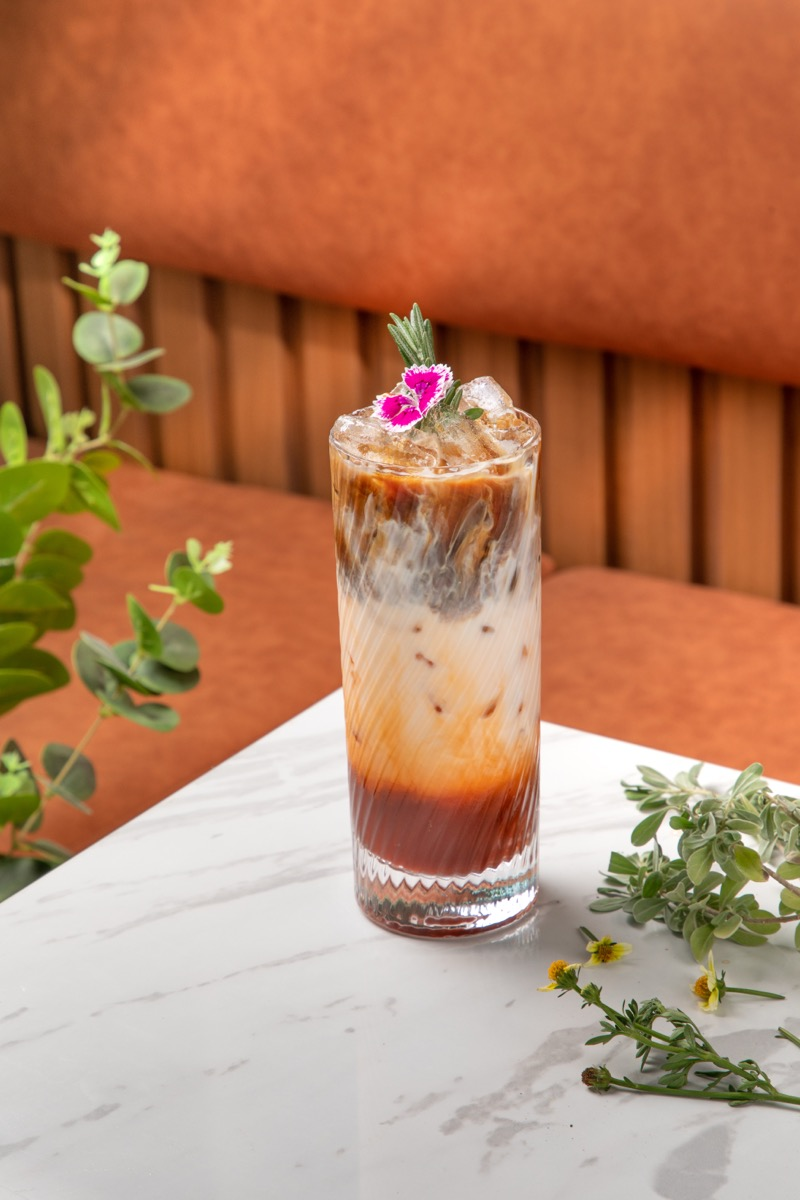
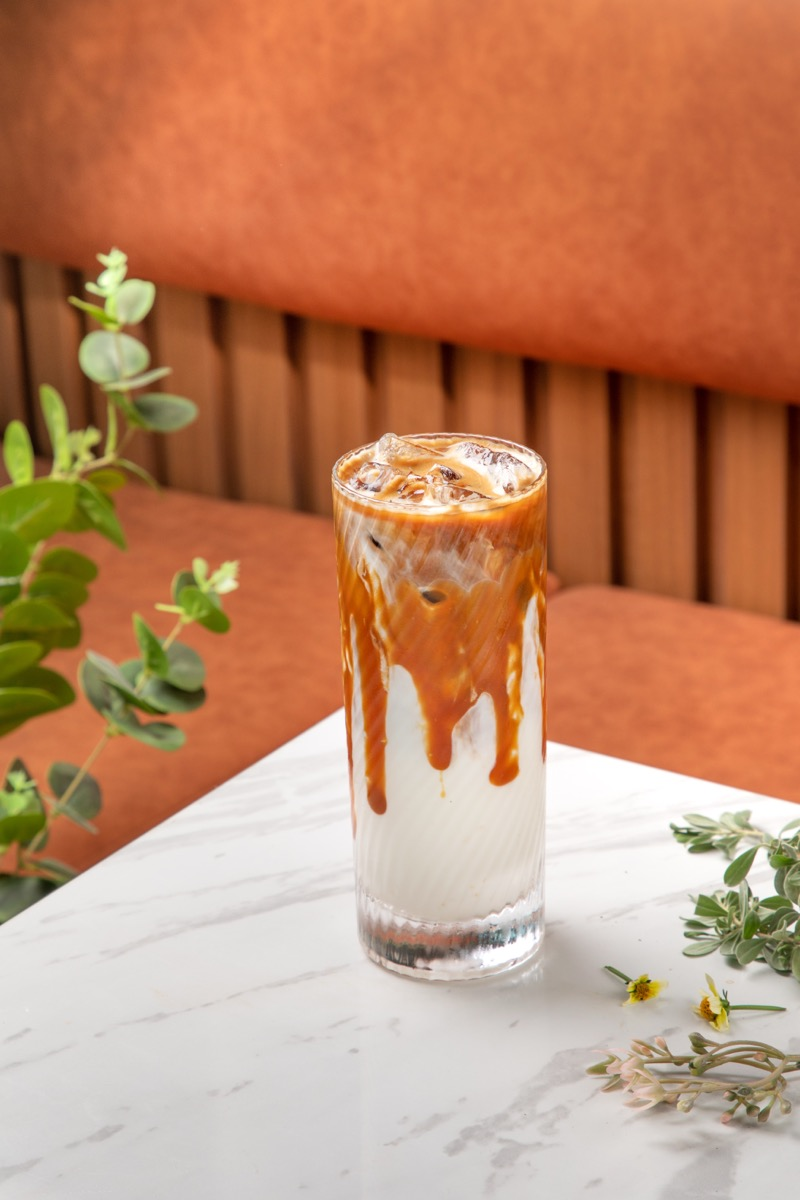
fix(mapping): correct Coffee #1-4 image↔menu mapping
After re-checking POS screenshots at higher resolution, the original
mapping had swapped several Coffee items. Now corrected via atomic
4-way file rename + HTML reference rebinding:

  คาราเมลลาเต้ ฿100  ← LILA-053 (caramel drip down clear glass)
  Es-yen ฿95         ← LILA-044 (beige + rosemary, fluted glass)
  ลาเต้ ฿90          ← LILA-049 (layered + rosemary, fluted)
  อเมริกาโน่ ฿80      ← LILA-046 (dark + rosemary)  [unchanged, was right]

LILA-043 (layered + flower garnish) doesn't match any clear POS item.
Renamed to lila-cafe-latte-iced-floral.jpg and reassigned to the
"แอฟโฟกาโต้" slot as placeholder; flagged 🔵 in verify.html so owner
can identify the real menu name.

Files touched:
- assets/menu/: 4-way circular rename (history preserved via git mv)
- prototype/index.html: 2 cards re-pointed (homepage highlight)
- prototype/menu.html:  4 cards re-pointed (coffee section)
- prototype/verify.html: 4 cards corrected + 1 reflagged as 🔵 TBC
- docs/menu-image-mapping.md: descriptions synced
- docs/TASKS.md: log

diff --git a/prototype/verify.html b/prototype/verify.html
@@ -98,7 +98,7 @@
       <img src="../assets/menu/lila-cafe-es-yen.jpg" class="w-full aspect-square object-cover" />
       <div class="p-3">
         <div class="font-medium">Es-yen ฿95</div>
-        <div class="text-xs text-slate-500">เอสเย็น</div>
+        <div class="text-xs text-slate-500">เอสเย็น · beige + rosemary</div>
         <div class="flex gap-2 mt-2"><span class="badge strong">✅</span><code class="text-[10px] text-slate-400">es-yen</code></div>
       </div>
     </div>
@@ -114,7 +114,7 @@
       <img src="../assets/menu/lila-cafe-latte-iced.jpg" class="w-full aspect-square object-cover" />
       <div class="p-3">
         <div class="font-medium">ลาเต้ (เย็น) ฿90</div>
-        <div class="text-xs text-slate-500">Latte Iced · cream + rosemary</div>
+        <div class="text-xs text-slate-500">Latte Iced · layered + rosemary</div>
         <div class="flex gap-2 mt-2"><span class="badge strong">✅</span><code class="text-[10px] text-slate-400">latte-iced</code></div>
       </div>
     </div>
@@ -134,12 +134,12 @@
         <div class="flex gap-2 mt-2"><span class="badge likely">🟡</span><code class="text-[10px] text-slate-400">es-yen-honey</code></div>
       </div>
     </div>
-    <div class="card bg-white rounded-2xl overflow-hidden shadow ring-2 ring-yellow-400">
-      <img src="../assets/menu/lila-cafe-caramel-macchiato.jpg" class="w-full aspect-square object-cover" />
+    <div class="card bg-white rounded-2xl overflow-hidden shadow ring-2 ring-blue-300">
+      <img src="../assets/menu/lila-cafe-latte-iced-floral.jpg" class="w-full aspect-square object-cover" />
       <div class="p-3">
-        <div class="font-medium">Caramel Macchiato?</div>
-        <div class="text-xs text-slate-500">caramel drizzle prominent</div>
-        <div class="flex gap-2 mt-2"><span class="badge likely">🟡</span><code class="text-[10px] text-slate-400">caramel-macchiato</code></div>
+        <div class="font-medium">⚠️ ไม่ทราบชื่อ — รอ confirm</div>
+        <div class="text-xs text-slate-500">layered + flower + rosemary — เมนูพิเศษอะไร?</div>
+        <div class="flex gap-2 mt-2"><span class="badge suggested">🔵</span><code class="text-[10px] text-slate-400">latte-iced-floral</code></div>
       </div>
     </div>
     <div class="card bg-white rounded-2xl overflow-hidden shadow ring-2 ring-yellow-400">

diff --git a/prototype/menu.html b/prototype/menu.html
@@ -224,7 +224,7 @@
     </article>
     <article class="group">
       <div class="arch-image bg-cream-200 aspect-square mb-4 shadow-sm">
-        <img src="../assets/menu/lila-cafe-dirty-chocolate.jpg" alt="แอฟโฟกาโต้" class="w-full h-full object-cover group-hover:scale-105 transition duration-500" />
+        <img src="../assets/menu/lila-cafe-latte-iced-floral.jpg" alt="แอฟโฟกาโต้" class="w-full h-full object-cover group-hover:scale-105 transition duration-500" />
       </div>
       <h3 class="thai-heading text-lg">แอฟโฟกาโต้</h3>
       <p class="text-xs text-ink-500 mt-1">Affogato</p>

diff --git a/docs/menu-image-mapping.md b/docs/menu-image-mapping.md
@@ -39,13 +39,13 @@
 | lila-cafe-almond-caramel-latte.jpg | coffee | almond-caramel-latte | Almond caramel latte | 🟡 | almond garnish |
 | lila-cafe-biscoff-latte.jpg | noncoffee | biscoff-latte | Biscoff/Lotus latte | 🟡 | biscuit topping |
 | lila-cafe-es-yen-honey.jpg | coffee | es-yen-honey | Es-yen + honeycomb | 🟡 | caramel + honeycomb |
-| lila-cafe-caramel-latte-iced.jpg | coffee | caramel-latte-iced | คาราเมลลาเต้ (เย็น) | ✅ | layered + caramel ribbon |
-| lila-cafe-latte-iced.jpg | coffee | latte-iced | ลาเต้ (เย็น) | ✅ | cream + rosemary |
-| lila-cafe-americano-iced.jpg | coffee | americano-iced | อเมริกาโน่ (เย็น) | ✅ | ดำเข้ม ใส |
+| lila-cafe-latte-iced-floral.jpg | signature | unknown-floral | ⚠️ ไม่ทราบชื่อ — layered + flower + rosemary | 🔵 | (was LILA-043) รอเจ้าของ confirm |
+| lila-cafe-latte-iced.jpg | coffee | latte-iced | ลาเต้ (เย็น) ฿90 | ✅ | layered + rosemary, fluted glass (was LILA-049) |
+| lila-cafe-americano-iced.jpg | coffee | americano-iced | อเมริกาโน่ (เย็น) ฿80 | ✅ | ดำเข้ม + rosemary (was LILA-046) |
 | lila-cafe-berry-smoothie.jpg | signature | berry-smoothie | Berry smoothie | 🟡 | red + cream layer |
-| lila-cafe-es-yen.jpg | coffee | es-yen | Es-yen | ✅ | caramel layered |
+| lila-cafe-es-yen.jpg | coffee | es-yen | Es-yen ฿95 | ✅ | beige + rosemary (was LILA-044) |
 | lila-cafe-pink-milk.jpg | noncoffee | pink-milk | นมชมพู | ✅ | shake + whipped cream |
-| lila-cafe-caramel-macchiato.jpg | coffee | caramel-latte-alt | Caramel latte alt | 🟡 | drizzle prominent |
+| lila-cafe-caramel-latte-iced.jpg | coffee | caramel-latte-iced | คาราเมลลาเต้ ฿100 | ✅ | caramel drip down outside (was LILA-053) |
 | lila-cafe-matcha-tonic.jpg | matcha | matcha-tonic | Matcha tonic | 🟡 | matcha + clear soda |
 | lila-cafe-dirty-matcha.jpg | matcha | dirty-matcha | Dirty matcha | 🟡 | matcha + chocolate drizzle |
 | lila-cafe-matcha-strawberry.jpg | matcha | matcha-strawberry | Matcha strawberry | 🟡 | เขียว-ขาว-แดง |
@@ -117,3 +117,4 @@ lila-cafe-{descriptor}.jpg
 |---|---|
 | 2026-05-28 | Initial mapping: 40 drink photos ระบุประเภทแล้ว, web-resize ครบ |
 | 2026-05-28 | **SEO rename:** `LILA-NNN.jpg` → `lila-cafe-{menu-slug}.jpg` (40 ไฟล์) + update references ใน HTML/docs |
+| 2026-05-28 | **Re-map Coffee #1-4 หลังเห็น POS images ชัดขึ้น:** swap LILA-043/044/049/053 ให้ตรง — คาราเมลลาเต้/Es-yen/ลาเต้ ถูกต้องแล้ว; LILA-043 (floral) ไม่ทราบชื่อ รอ confirm |

diff --git a/docs/TASKS.md b/docs/TASKS.md
@@ -33,6 +33,9 @@ Status: `todo` | `in-progress` | `blocked` | `done`
 | 0.21 | ขอรูป interior/facility (5 มุม) | todo | สำหรับ facility.html + hero |
 | 0.22 | Retry download ~5 ไฟล์ที่ Drive rate-limit | todo | LILA-083/086/087/088/090/091/092/093 |
 | 0.23 | SEO rename รูป: `LILA-NNN` → `lila-cafe-{slug}.jpg` | done | git mv 40 ไฟล์ + update HTML/docs (74 refs) |
+| 0.24 | Re-map Coffee 4 รายการหลัก (คาราเมลลาเต้/Es-yen/ลาเต้/อเมริกาโน่) | done | สลับ LILA-043/044/049/053 ให้ตรงตาม POS images ใหม่ |
+| 0.25 | Re-map รายการที่เหลือ (~36) | todo | รอ user check verify.html รอบ 2 + ส่ง POS ละเอียดเพิ่ม |
+| 0.26 | Process รูปใหม่ใน _downloads/lila-source (164 ไฟล์) | todo | resize + map หลัง user confirm task 0.25 |
 
 ---
 
@@ -157,3 +160,4 @@ Status: `todo` | `in-progress` | `blocked` | `done`
 | 2026-05-28 | Initial commit + push GitHub: baompansiri/lilacafe |
 | 2026-05-28 | Drive photos: 40 drink shots downloaded, resized 1200px (563MB→5.3MB), mapped + integrated into prototype |
 | 2026-05-28 | SEO rename: `LILA-NNN` → `lila-cafe-{slug}.jpg` ทั้ง 40 ไฟล์ (git mv + bulk refs update) |
+| 2026-05-28 | Re-map Coffee #1-4 หลัง POS images ละเอียดมาใหม่: swap LILA-043↔053, 044↔049 ให้ตรง |